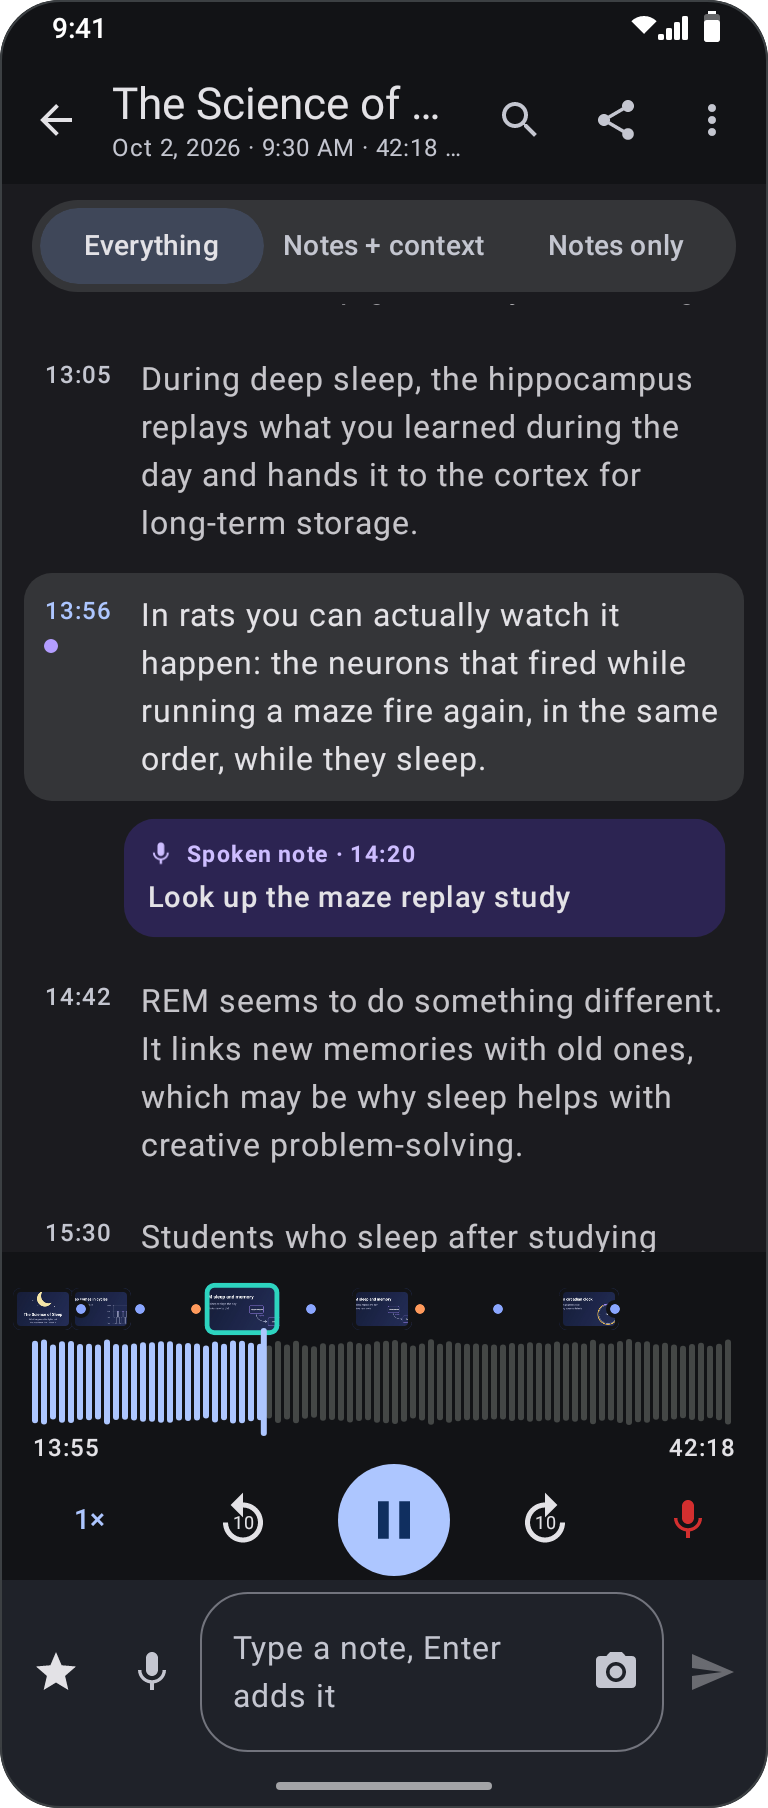
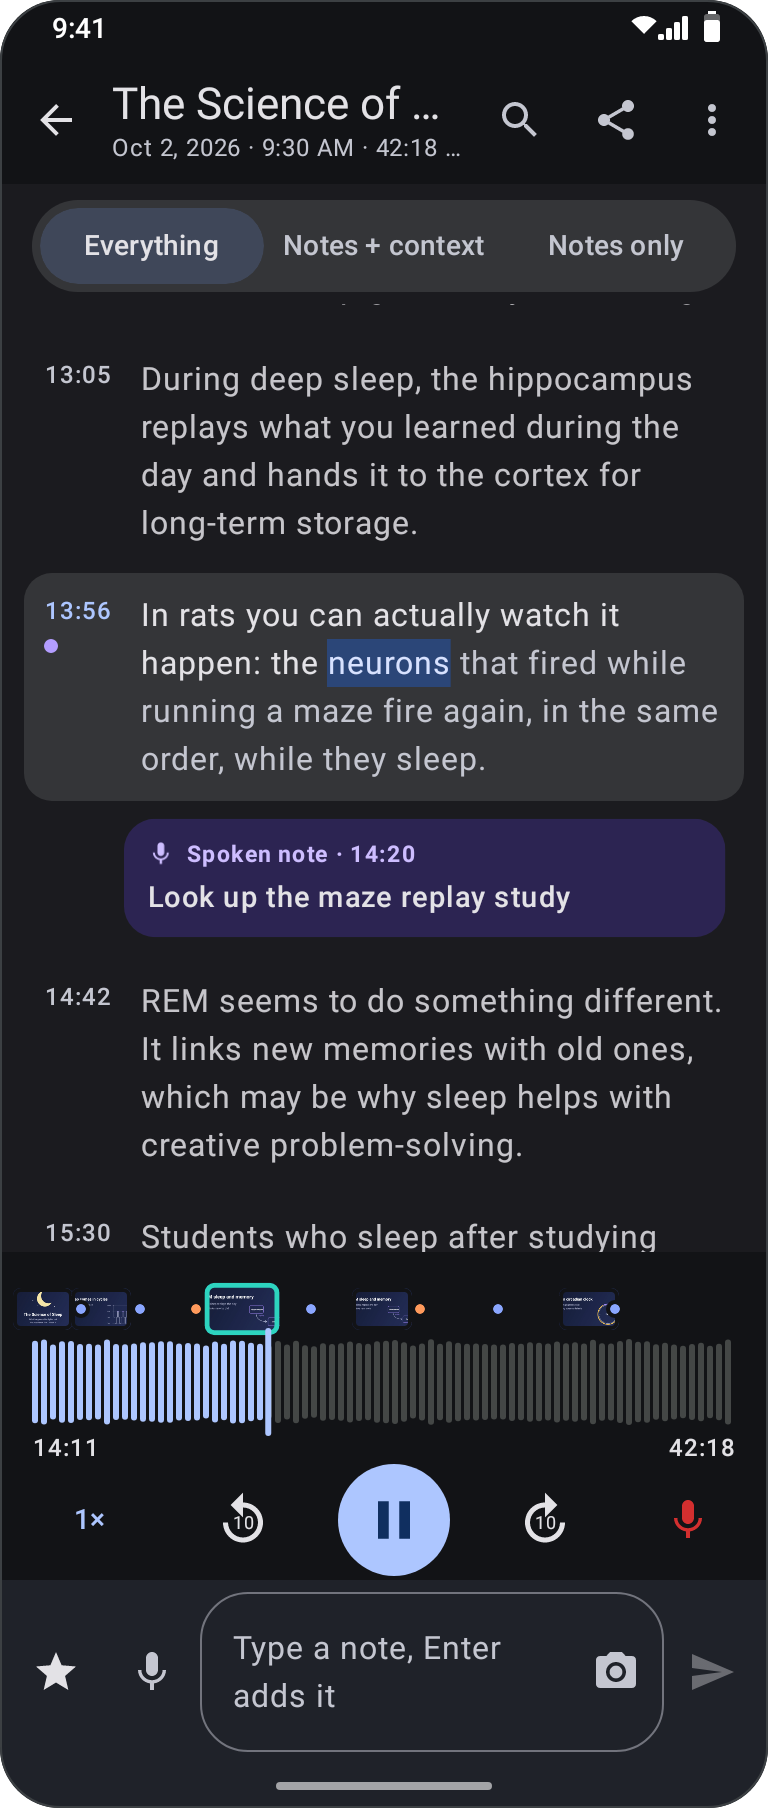
README: group the features, and screenshots of what's new
The feature list is grouped under While you record, Playing it back,
Summaries/answers/search and Keeping and sharing, and the screenshot
table gains a row: asking a session, looking up a word, and who said
what in a meeting. The demo library now has word timings (so dark mode
shows the word being said lit), titled chapters, and a meeting with
named speakers; captures include a sheet showing over the screen.

Claude-Session: https://claude.ai/code/session_01GMGKrsQ6ouhy93VCxJNLw3

diff --git a/app/src/test/java/com/kjwindham/audiocool/ReadmeScreenshots.kt b/app/src/test/java/com/kjwindham/audiocool/ReadmeScreenshots.kt
@@ -14,17 +14,23 @@ import android.graphics.Shader
 import android.graphics.Typeface
 import android.graphics.drawable.AdaptiveIconDrawable
 import android.os.Looper
+import androidx.compose.ui.semantics.SemanticsActions
 import androidx.compose.ui.test.hasScrollToNodeAction
 import androidx.compose.ui.test.hasSetTextAction
 import androidx.compose.ui.test.hasText
+import androidx.compose.ui.test.isFocused
 import androidx.compose.ui.test.junit4.createAndroidComposeRule
+import androidx.compose.ui.test.longClick
 import androidx.compose.ui.test.onAllNodesWithText
 import androidx.compose.ui.test.onNodeWithContentDescription
 import androidx.compose.ui.test.onNodeWithText
 import androidx.compose.ui.test.performClick
+import androidx.compose.ui.test.performImeAction
 import androidx.compose.ui.test.performScrollToIndex
 import androidx.compose.ui.test.performScrollToNode
 import androidx.compose.ui.test.performTextInput
+import androidx.compose.ui.test.performTouchInput
+import androidx.compose.ui.text.TextLayoutResult
 import androidx.core.content.ContextCompat
 import androidx.test.core.app.ApplicationProvider
 import androidx.test.ext.junit.runners.AndroidJUnit4
@@ -39,26 +45,20 @@ import com.kjwindham.audiocool.data.Recording
 import com.kjwindham.audiocool.data.Session
 import com.kjwindham.audiocool.data.SessionRepository
 import com.kjwindham.audiocool.data.SessionSummary
+import com.kjwindham.audiocool.data.SpeakerTurn
 import com.kjwindham.audiocool.data.TimelineMode
+import com.kjwindham.audiocool.data.TimelineRow
 import com.kjwindham.audiocool.data.TranscriptSegment
+import com.kjwindham.audiocool.data.Voice
 import com.kjwindham.audiocool.data.timelineRows
+import com.kjwindham.audiocool.lookup.LookUp
+import com.kjwindham.audiocool.summarize.Summarizer
 import com.kjwindham.audiocool.summarize.SummaryController
 import com.kjwindham.audiocool.summarize.chapters
 import com.kjwindham.audiocool.transcribe.LiveTranscription
 import com.kjwindham.audiocool.transcribe.SpeechModel
 import com.kjwindham.audiocool.transcribe.TranscriptionController
 import com.kjwindham.audiocool.util.Prefs
-import org.junit.After
-import org.junit.Assume.assumeTrue
-import org.junit.Before
-import org.junit.Rule
-import org.junit.Test
-import org.junit.runner.RunWith
-import org.robolectric.Shadows.shadowOf
-import org.robolectric.annotation.Config
-import org.robolectric.annotation.GraphicsMode
-import org.robolectric.shadows.ShadowMediaPlayer
-import org.robolectric.shadows.util.DataSource
 import java.io.File
 import java.io.FileOutputStream
 import java.io.RandomAccessFile
@@ -71,6 +71,17 @@ import kotlin.math.abs
 import kotlin.math.cos
 import kotlin.math.roundToInt
 import kotlin.math.sin
+import org.junit.After
+import org.junit.Assume.assumeTrue
+import org.junit.Before
+import org.junit.Rule
+import org.junit.Test
+import org.junit.runner.RunWith
+import org.robolectric.Shadows.shadowOf
+import org.robolectric.annotation.Config
+import org.robolectric.annotation.GraphicsMode
+import org.robolectric.shadows.ShadowMediaPlayer
+import org.robolectric.shadows.util.DataSource
 
 /**
  * The screenshots in the README, made from a demo library: a lecture on sleep with its slides, notes,
@@ -186,11 +197,105 @@ class ReadmeScreenshots {
     }
 
     @Test
+    fun whoSaidWhat() {
+        val review = designReview()
+        open(review)
+        scrollTo(review, timelineRows(SessionRepository.get(review.id)!!, TimelineMode.EVERYTHING).first { it is TimelineRow.Speech && it.text.startsWith("Step one") }.key, TimelineMode.EVERYTHING)
+        screenshot("speakers")
+    }
+
+    @Test
+    fun askThisSession() {
+        Prefs(app).summaries = true
+        SummaryController.useForTest {
+            object : Summarizer {
+                override val where = "CPU (4 threads)"
+                override val lastSpeed = 300.0 to 12.0
+                override fun reply(prompt: String, maxTokens: Int): String {
+                    fun number(start: String) = Regex("\\[(\\d+)] \\([^)]*\\) $start").find(prompt)?.groupValues?.get(1) ?: "1"
+                    return "Mostly adenosine: it builds up in your brain the whole time you're awake, so the longer you're up, the stronger the pull to sleep [${number("Adenosine builds up")}]. " +
+                        "Caffeine only hides it for a while, by blocking adenosine receptors [${number("Caffeine works")}]."
+                }
+                override fun close() {}
+            }
+        }
+        try {
+            val talk = sleepTalk()
+            open(talk)
+            compose.onNodeWithContentDescription("Search this session").performClick()
+            // The search box (not the note box below it) has the focus.
+            compose.onNode(hasSetTextAction() and isFocused()).performTextInput("Why do we get sleepy?")
+            compose.onNode(hasSetTextAction() and isFocused()).performImeAction()
+            val answered = CountDownLatch(1)
+            shadowOf(Looper.getMainLooper()).idle()
+            SummaryController.afterQueued { answered.countDown() }
+            answered.await(10, TimeUnit.SECONDS)
+            screenshot("ask")
+        } finally {
+            SummaryController.clearAnswer()
+            SummaryController.useForTest(null)
+            Prefs(app).summaries = false
+        }
+    }
+
+    @Test
+    fun lookUpAWord() {
+        Prefs(app).summaries = true
+        SummaryController.useForTest {
+            object : Summarizer {
+                override val where = "CPU (4 threads)"
+                override val lastSpeed = 300.0 to 12.0
+                override fun reply(prompt: String, maxTokens: Int) = "Rapid eye movement sleep: the dreaming stage, packed into the last cycles of the night."
+                override fun close() {}
+            }
+        }
+        LookUp.fetchForTest = { url ->
+            when {
+                url.endsWith("/page/summary/REM") -> "{\"type\": \"disambiguation\", \"title\": \"Rem\"}"
+                url.contains("titles=REM") -> "{\"query\": {\"pages\": [{\"title\": \"Rapid eye movement sleep\", \"description\": \"Phase of sleep characterized by rapid eye movements\"}, " +
+                    "{\"title\": \"R.E.M.\", \"description\": \"American rock band\"}, {\"title\": \"Roentgen equivalent man\", \"description\": \"Radiation unit\"}]}}"
+                url.contains("/page/summary/Rapid%20eye") -> "{\"type\": \"standard\", \"title\": \"Rapid eye movement sleep\", \"extract\": \"Rapid eye movement sleep is a unique phase of sleep in mammals and birds, " +
+                    "characterized by random rapid movement of the eyes, low muscle tone throughout the body, and the propensity of the sleeper to dream vividly.\", " +
+                    "\"content_urls\": {\"mobile\": {\"page\": \"https://en.m.wikipedia.org/wiki/Rapid_eye_movement_sleep\"}}}"
+                else -> null
+            }
+        }
+        try {
+            val talk = sleepTalk()
+            open(talk)
+            val row = timelineRows(SessionRepository.get(talk.id)!!, TimelineMode.EVERYTHING).first { it is TimelineRow.Speech && it.text.contains("up into REM") } as TimelineRow.Speech
+            scrollTo(talk, row.key, TimelineMode.EVERYTHING)
+            val node = compose.onNodeWithText(row.text, useUnmergedTree = true)
+            val layouts = mutableListOf<TextLayoutResult>()
+            node.fetchSemanticsNode().config[SemanticsActions.GetTextLayoutResult].action!!(layouts)
+            val box = layouts.single().getBoundingBox(row.text.indexOf("REM") + 1)
+            node.performTouchInput { longClick(box.center) }
+            compose.onNodeWithText("Look up “REM”").performClick()
+            repeat(2) {
+                shadowOf(Looper.getMainLooper()).idle()
+                val model = CountDownLatch(1)
+                SummaryController.afterQueued { model.countDown() }
+                model.await(10, TimeUnit.SECONDS)
+                val web = CountDownLatch(1)
+                LookUp.afterQueued { web.countDown() }
+                web.await(10, TimeUnit.SECONDS)
+            }
+            screenshot("lookup")
+        } finally {
+            LookUp.close()
+            LookUp.fetchForTest = null
+            SummaryController.useForTest(null)
+            Prefs(app).summaries = false
+        }
+    }
+
+    @Test
     @Config(qualifiers = "+night")
     fun darkMode() {
         val talk = sleepTalk()
         open(talk)
-        play(talk, "13:56")
+        // Mid-sentence, so the word being said is lit.
+        play(talk, "14:12")
         screenshot("dark")
     }
 
@@ -282,9 +387,10 @@ class ReadmeScreenshots {
             "A clock in the brain keeps a roughly 24-hour rhythm, set by morning light and pushed later by evening screens. Caffeine's five-to-six-hour half-life keeps afternoon coffee active at bedtime.",
             "Five habits help most: the same wake time every day, morning daylight, caffeine before noon, a cool and dark bedroom, and half an hour without screens before bed.",
         )
+        val titles = listOf("Why we get sleepy", "Sleep cycles", "Sleep and memory", "The body clock", "Sleeping better")
         val keys = parts.map { it.key }.toSet()
-        parts.zip(summaries).forEach { (part, text) ->
-            SessionRepository.setChapterSummary(talk.id, ChapterSummary(part.key, text, "demo", SummaryController.MODEL), keys)
+        parts.zip(summaries.zip(titles)).forEach { (part, summary) ->
+            SessionRepository.setChapterSummary(talk.id, ChapterSummary(part.key, summary.first, "demo", SummaryController.MODEL, summary.second), keys)
         }
         SessionRepository.setSessionSummary(
             talk.id,
@@ -354,14 +460,31 @@ class ReadmeScreenshots {
         notes(lecture, "SN2 = one step, inverts", "Tertiary → SN1", "Practice set due Friday", "Polar aprotic favors SN2", "Ask about E1 vs SN1", "Draw the mechanism for #4")
     }
 
-    private fun designReview() {
+    private fun designReview(): Demo {
         val review = session(
             "demo-design", "Design Review: Onboarding", on(Calendar.SEPTEMBER, 30, 11, 0), 1_720_000,
-            listOf(said("00:10", "00:45", "Let's walk through the new sign-up flow, screen by screen.")),
+            listOf(
+                said("00:10", "00:45", "Let's walk through the new sign-up flow, screen by screen."),
+                said("02:14", "02:38", "Step one is the Google button, and most people tap it right away."),
+                said("02:41", "02:55", "Do we still need the email field there? Most people will tap Google."),
+                said("02:58", "03:16", "We keep it for schools that don't use Google accounts."),
+                said("03:20", "03:41", "Analytics says forty-one percent drop off at the permissions step."),
+                said("03:44", "03:58", "Then that's the one to fix first."),
+                said("04:02", "04:20", "Could we ask for permissions after the first win instead?"),
+            ),
+        )
+        SessionRepository.setSpeakers(
+            review.id, review.recId,
+            listOf(
+                SpeakerTurn(t("00:10"), t("00:45"), 0), SpeakerTurn(t("02:14"), t("02:38"), 2), SpeakerTurn(t("02:41"), t("02:55"), 1), SpeakerTurn(t("02:58"), t("03:16"), 2),
+                SpeakerTurn(t("03:20"), t("03:41"), 3), SpeakerTurn(t("03:44"), t("03:58"), 0), SpeakerTurn(t("04:02"), t("04:20"), 1),
+            ),
+            listOf(Voice(0, "Priya"), Voice(1, "Sam"), Voice(2, "Me"), Voice(3)),
         )
         slide(review, "d1", "00:20", Look.MINT, Art.PHONE, "Onboarding v3", "Three steps, not five", centered = true)
         slide(review, "d2", "14:30", Look.MINT, Art.NONE, "Where people drop off", "Step 3: permissions", "41% leave here")
         notes(review, "Move permissions after the first win", "Skip button on step 2", "Test with 5 new users", "Copy: shorter headline", "Follow up with Priya on analytics")
+        return review
     }
 
     private fun machineLearning() {
@@ -617,7 +740,12 @@ class ReadmeScreenshots {
 
     private fun render(): Bitmap {
         val view = compose.activity.window.decorView
-        return Bitmap.createBitmap(view.width, view.height, Bitmap.Config.ARGB_8888).also { view.draw(Canvas(it)) }
+        return Bitmap.createBitmap(view.width, view.height, Bitmap.Config.ARGB_8888).also {
+            val canvas = Canvas(it)
+            view.draw(canvas)
+            // A sheet or dialog is a window of its own, over the screen.
+            org.robolectric.shadows.ShadowDialog.getLatestDialog()?.takeIf { d -> d.isShowing }?.window?.decorView?.draw(canvas)
+        }
     }
 
     /**
@@ -698,7 +826,12 @@ class ReadmeScreenshots {
 
     private fun t(mmss: String): Long = mmss.split(":").let { (m, s) -> (m.toLong() * 60 + s.toLong()) * 1000 }
 
-    private fun said(from: String, to: String, text: String) = TranscriptSegment(t(from), t(to), text)
+    /** A phrase, its words timed evenly across it (as the speech model times them, near enough). */
+    private fun said(from: String, to: String, text: String): TranscriptSegment {
+        val words = text.split(' ')
+        val step = (t(to) - t(from)) / words.size
+        return TranscriptSegment(t(from), t(to), text, words.indices.map { (it * step).toInt() })
+    }
 
     private fun on(month: Int, day: Int, hour: Int, minute: Int): Long =
         Calendar.getInstance().apply { set(2026, month, day, hour, minute, 0); set(Calendar.MILLISECOND, 0) }.timeInMillis

diff --git a/README.md b/README.md
@@ -29,37 +29,50 @@
 
 ## What it does
 
+**While you record**
+
 - **Notes that remember the moment.** Each note is linked to the second you started typing it. Tap
   it later to hear what was being said.
-- **Live transcript.** NVIDIA's Parakeet model writes down what's said as you record, right on
-  your phone. On playback each word lights up as it's said; tap a word to hear it.
+- **Live transcript.** NVIDIA's Parakeet model writes down what's said as you record, right on your
+  phone.
 - **Slides become chapters.** Snap a slide and it lands where it was shown. Its text is read, made
   searchable, and used to name the session.
 - **Hands-free slides (beta).** Prop the phone up facing the screen and it photographs each new slide
   by itself, skipping repeats and keeping one photo per slide as its bullet points appear.
+- **Spoken notes.** Hold the mic and say a note, through a headset if you like, while the phone
+  keeps recording the room.
+- **Lock-screen controls.** Mark a moment, pause, stop or photograph a slide without unlocking.
+
+**Playing it back**
+
 - **One timeline.** What was said, your notes, ★ marks and photos, in order. Show everything, notes
-  with the talk around them, or just your notes.
+  with the talk around them, or just your notes. Each word lights up as it's said; tap one to hear it.
 - **A waveform to scrub.** Drag through the recording, or tap a marker for a quick preview before
   you jump there.
+- **Who said what.** For meetings: each paragraph says who's speaking. Name a voice once and it's
+  recognized in later recordings; the voiceprints stay on your phone.
+- **Look things up.** Long-press a word for what it means in the talk, where it came up and what
+  Wikipedia says, or have a slide explained.
+
+**Summaries, answers and search**
+
 - **Summaries and chapters.** A talk comes in titled chapters (at its slides, or where it turns to
   something new), each summarized, plus a summary of the whole session with key points and action
   items, written on the phone by Google's Gemma 4.
+- **Ask a session.** Type a question into its search and the summary model answers from the
+  recording, with the moments to jump to.
+- **Search everything.** Folders, session names, summaries, notes, slide text and every word said,
+  with filters to narrow it down. Turn on search by meaning to find things by what they mean, not
+  just their words.
+
+**Keeping and sharing**
+
 - **Folders.** Keep each course or project together. The summary model can suggest folders, and file
   new sessions as they're summarized.
-- **Look things up.** Long-press a word in what was said for what it means in the talk, where it
-  came up and what Wikipedia says; or have the summary model explain a slide.
-- **Search everything.** Folders, session names, summaries, notes, slide text and every word said,
-  with filters to narrow it down, and by meaning as well as words. Or ask a session a question: the summary model answers from the
-  recording, with the moments to jump to.
 - **Share it as a web page.** One file with the audio, slides, notes and transcript, for anyone to
-  open in a browser; tap a word to hear it.
-- **Lock-screen controls.** Mark a moment, pause, stop or photograph a slide without unlocking.
-- **Spoken notes.** Hold the mic and say a note, through a headset if you like, while the phone
-  keeps recording the room.
-- **Who said what.** For meetings: each paragraph says who's speaking. Name a voice once and it's
-  recognised in later recordings; the voiceprints stay on your phone.
-- **Backups and sharing.** Automatic backups to a folder you pick, and sharing as Markdown with the
-  audio and photos.
+  open in a browser.
+- **Backups.** Automatic backups to a folder you pick, and sharing as Markdown with the audio and
+  photos.
 
 [More about each feature →](docs/FEATURES.md)
 
@@ -74,7 +87,12 @@
   <tr>
     <td align="center"><img src="docs/screenshots/search.png" width="250" alt="Search results for caffeine, with filters for sessions, summaries, notes and slides"><br><sub>Search everything, or pick what to search</sub></td>
     <td align="center"><img src="docs/screenshots/gallery.png" width="250" alt="Sessions as a gallery of thumbnails"><br><sub>Or browse them as a gallery</sub></td>
-    <td align="center"><img src="docs/screenshots/dark.png" width="250" alt="The timeline in dark mode, playing"><br><sub>Dark mode</sub></td>
+    <td align="center"><img src="docs/screenshots/dark.png" width="250" alt="The timeline in dark mode, playing, with the word being said lit"><br><sub>Dark mode, each word lit as it's said</sub></td>
+  </tr>
+  <tr>
+    <td align="center"><img src="docs/screenshots/ask.png" width="250" alt="The answer to Why do we get sleepy, from the session, with the moment to jump to"><br><sub>Ask a session a question</sub></td>
+    <td align="center"><img src="docs/screenshots/lookup.png" width="250" alt="Looking up REM: what it means in the talk, where it came up, and Wikipedia's article"><br><sub>Long-press a word to look it up</sub></td>
+    <td align="center"><img src="docs/screenshots/speakers.png" width="250" alt="A meeting's transcript, each paragraph labeled with who's speaking"><br><sub>Who said what, in meetings</sub></td>
   </tr>
 </table>
 
